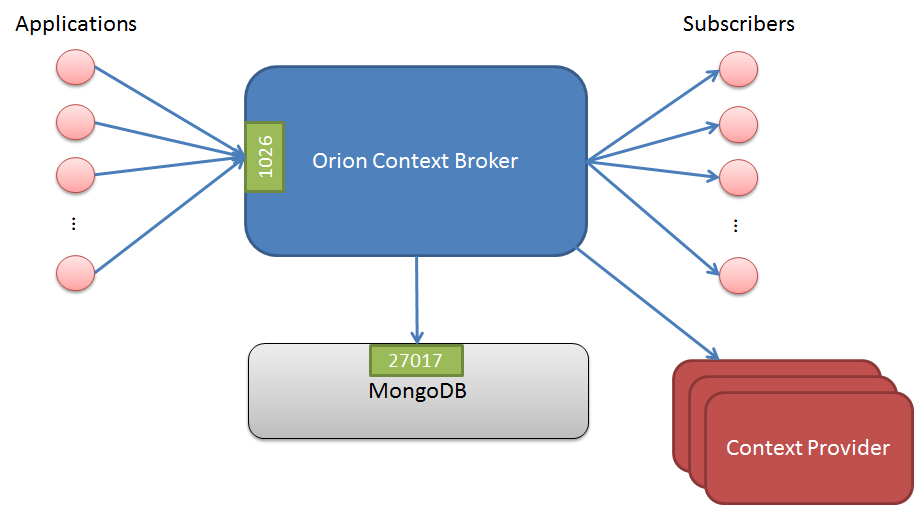
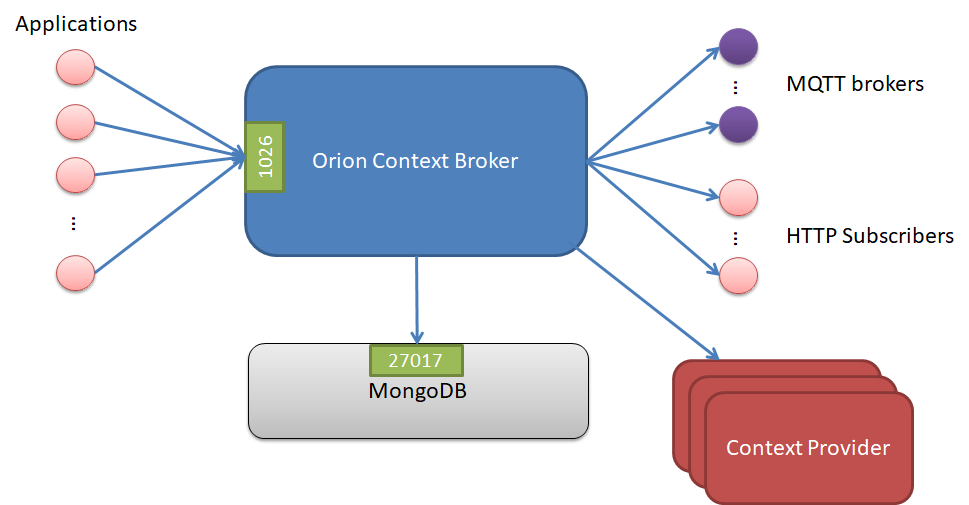
ADD MQTT documentation

diff --git a/src/lib/mqtt/MqttConnectionManager.cpp b/src/lib/mqtt/MqttConnectionManager.cpp
@@ -177,9 +177,9 @@ void MqttConnectionManager::semGive(void)
 */
 MqttConnection MqttConnectionManager::getConnection(const std::string& host, int port)
 {
+  // Note we don't take the sem here, as the caller has already done that
   std::string endpoint = getEndpoint(host, port);
 
-  semTake();
   if (connections.find(endpoint) == connections.end())
   {
     // Doesn't exists: create it
@@ -196,7 +196,6 @@ MqttConnection MqttConnectionManager::getConnection(const std::string& host, int
      if (c.mosq == NULL)
      {
        LM_E(("Runtime Error (could not create mosquitto client instance for %s)", endpoint.c_str()));
-       semGive();
        return c;
      }
 
@@ -210,7 +209,6 @@ MqttConnection MqttConnectionManager::getConnection(const std::string& host, int
        LM_E(("Runtime Error (could not connect to MQTT Broker %s (%d): %s)", endpoint.c_str(), resultCode, mosquitto_strerror(resultCode)));
        mosquitto_destroy(c.mosq);
        c.mosq = NULL;
-       semGive();
        return c;
      }
 
@@ -224,7 +222,6 @@ MqttConnection MqttConnectionManager::getConnection(const std::string& host, int
      c.lastTime = getCurrentTime();
      connections[endpoint] = c;
 
-     semGive();
      return c;
   }
   else
@@ -232,7 +229,7 @@ MqttConnection MqttConnectionManager::getConnection(const std::string& host, int
     // Already exists: update the time counter
     LM_T(LmtMqttNotif, ("Existing MQTT broker connection for %s", endpoint.c_str()));
     connections[endpoint].lastTime = getCurrentTime();
-    semGive();
+
     return connections[endpoint];
   }
 }
@@ -245,12 +242,19 @@ MqttConnection MqttConnectionManager::getConnection(const std::string& host, int
 */
 int MqttConnectionManager::sendMqttNotification(const std::string& host, int port, const std::string& content, const std::string& topic, unsigned int qos)
 {
+  // A previous version of the implementation took the sem in getConnection(), but we
+  // need to do it in sendMqttNotification to avoid the connection get removed by
+  // the cleanup() method while is beinig used here (the probability is small, but
+  // it could happen in theory)
+  semTake();
+
   MqttConnection c = getConnection(host, port);
   mosquitto* mosq = c.mosq;
 
   if (mosq == NULL)
   {
     // No need of log traces here: the getConnection() method would already print them
+    semGive();
     return -1;
   }
 
@@ -268,6 +272,7 @@ int MqttConnectionManager::sendMqttNotification(const std::string& host, int por
     LM_T(LmtMqttNotif, ("MQTT notification sent to %s:%d on topic %s with qos %d with id %d", host.c_str(), port, topic.c_str(), qos, id));
   }
 
+  semGive();
   return 0;
 }
 

diff --git a/doc/manuals/devel/sourceCode.md b/doc/manuals/devel/sourceCode.md
@@ -19,6 +19,7 @@
 * [src/lib/mongoBackend/](#srclibmongobackend) (Database operations implementation)
 * [src/lib/mongoDriver/](#srclibmongodriver) (Database interface to MongoDB)
 * [src/lib/ngsiNotify/](#srclibngsinotify) (NGSI notifications)
+* [src/lib/mqtt/](#srclibmqtt) (MQTT notifications)
 * [src/lib/alarmMgr/](#srclibalarmmgr) (Alarm Manager implementation)
 * [src/lib/cache/](#srclibcache) (Subscription cache implementation)
 * [src/lib/logSummary/](#srcliblogsummary) (Log Summary implementation)
@@ -445,29 +446,45 @@ of the driver and simplify our codebase. [Issue #3789](https://github.com/telefo
 ## src/lib/ngsiNotify/
 The **ngsiNotify** library is where notifications to subscriptions are implemented.
 When an entity is created or modified or when a subscription is created or modified, in case there is an active subscription/entity, the subscriber will be sent a notification, and it is the task of this library to make sure that that happens.
-[**mongoBackend**](#srclibmongobackend) decides when to notify and **ngsiNotify** executes the notification, with the help of the external library [libcurl](https://curl.haxx.se/libcurl/).
-Actually, a function from the [**rest** library](#srclibrest) is used: `httpRequestSend()`. Another important aspect of this library is that the notifications are sent by separate threads, using a thread pool if desired.
+[**mongoBackend**](#srclibmongobackend) decides when to notify and **ngsiNotify** executes the notification, with the help of an external library, depending the case:
+
+* For HTTP notifications, [libcurl](https://curl.haxx.se/libcurl/) is used. Actually, a function from
+  the [**rest** library](#srclibrest) is used: `httpRequestSend()`.
+* For MQTT notifications, [mosquitto](https://mosquitto.org/api/files/mosquitto-h.html) is used. Actually, a function from
+  the [**mqtt** library](#srclibmqtt) is used: `sendMqttNotification()`
+
+Another important aspect of this library is that the notifications are sent by separate threads, using a thread pool if desired.
 
 Using the [CLI parameter](../admin/cli.md) `-notificationMode`, Orion can be started with a thread pool for sending of notifications (`-notificationMode threadpool`). If so, during Orion startup, a pool of threads is created and these threads await new items in the notification queue and when an item becomes present, it is taken from the queue and processed, sending the notification in question. If the thread pool is not used, then a thread will be created for each notification to be sent (default value of `-notificationMode` is "transient", which gives this behaviour). More information on notification modes can be found in [this section of the Orion administration manual](../admin/perf_tuning.md#notification-modes-and-performance).
 
 This module is always invoked from `processOnChangeConditionForUpdateContext()` due to attribute update/creation (see the diagram [MD-01](mongoBackend.md#flow-md-01)).
 
-The following two images demonstrate the program flow for context entity notifications without and with thread pool.
+The following four images demonstrate the program flow for context entity notifications without and with thread pool, both in the case
+of HTTP and MQTT notifications.
 
 <a name="flow-nf-01"></a>
-![Notification on entity-attribute Update/Creation without thread pool](images/Flow-NF-01.png)
+![HTTP Notification on entity-attribute Update/Creation without thread pool](images/Flow-NF-01.png)
 
-_NF-01: Notification on entity-attribute Update/Creation without thread pool_
+_NF-01: HTTP Notification on entity-attribute Update/Creation without thread pool_
 
 * A vector of `SenderThreadParams` is built, each item of this vector corresponding to one notification (step 1).
 * `pthread_create()` is called to create a new thread for sending of the notifications and without awaiting any result, the control is returned to mongoBackend (step 2).
 * `pthread_create()` spawns the new thread which has `startSenderThread()` as starting point (step 3).
 * `startSenderThread()` loops over the `SenderThreadParams` vector and sends a notification per item (steps 4, 5 and 6). The response from the receiver of the notification is waited on (with a timeout), and all notifications are done in a serialized manner.
 
-<a name="flow-nf-03"></a>
-![Notification on entity-attribute Update/Creation with thread pool](images/Flow-NF-03.png)
+<a name="flow-nf-01b"></a>
+![MQTT Notification on entity-attribute Update/Creation without thread pool](images/Flow-NF-01b.png)
 
-_NF-03: Notification on entity-attribute Update/Creation with thread pool_
+_NF-01b: MQTT Notification on entity-attribute Update/Creation without thread pool_
+
+* Step 1 to 4 are the same a in the previous diagram. The difference is in steps 5 and 6, which use MQTT library to publish the notification in
+  the corresponding MQTT broker. If the connection to the MQTT broker don't exist previously, then it is created as part as the notification
+  process (there is a keepalive time configured with the `-mqttMaxAge` CLI so idle connectiona periodically cleaned up).
+
+<a name="flow-nf-03"></a>
+![HTTP Notification on entity-attribute Update/Creation with thread pool](images/Flow-NF-03.png)
+
+_NF-03: HTTP Notification on entity-attribute Update/Creation with thread pool_
 
 * A vector of `SenderThreadParams` is built, each item of this vector corresponding to one notification (step 1).
 * A `ServiceQueue` is selected depending the service associated to the notification. If no queue exists for the service
@@ -477,6 +494,26 @@ _NF-03: Notification on entity-attribute Update/Creation with thread pool_
 * One of the worker threads in the thread pool pops an item from the message queue (step 4). This is done using `SyncQOverflow::pop()`, which uses the notification queue semaphore to synchronize access to the queue.
 * The worker thread loops over the `SenderThreadParam` vector of the popped queue item and sends one notification per `SenderThreadParams` item in the vector (steps 5, 6 and 7). The response from the receiver of the notification is waited on (with a timeout), and all notifications are done in a serialized manner.
 * After that, the worker thread sleeps, waiting to wake up when a new item in the queue needs to be processed.
+
+<a name="flow-nf-03b"></a>
+![MQTT Notification on entity-attribute Update/Creation with thread pool](images/Flow-NF-03b.png)
+
+_NF-03b: MQTT Notification on entity-attribute Update/Creation with thread pool_
+
+* Step 1 to 5 are the same as in the previous diagram. The difference is in steps 6 and 7, which use MQTT library to publish the notification in
+  the corresponding MQTT broker. If the connection to the MQTT broker don't exist previously, then it is created as part as the notification
+  process (there is a keepalive time configured with the `-mqttMaxAge` CLI so idle connectiona periodically cleaned up).
+
+[Top](#top)
+
+## src/lib/mqtt/
+
+This library deals with MQTT notifications, based on [mosquitto](https://mosquitto.org/api/files/mosquitto-h.html) external library. There is
+a connection manager implemented as a singleton of the `MqttConnectionManager` class that keeps control of opened MQTT connections
+(cleaning up idle connections based in the `-maxMqttAge` keepalive) and provides the `sendMqttNotification` used by
+the [**ngsiNotify** library](#srclibngsinotify).
+
+[Top](#top)
 
 ## src/lib/alarmMgr/
 [Alarms](../admin/logs.md#alarms) are special log messages inserted into the log file. However, to record the number of consecutive alarms of the same type, and to not repeat them when they're already active, etc. a manager has been implemented. This *Alarm Manager* resides in the library **alarmMgr**.

diff --git a/doc/manuals/devel/architecture.md b/doc/manuals/devel/architecture.md
@@ -23,8 +23,10 @@ _Current Orion internal architecture_
 	* Next, similar to NGSIv1, a service routine is called to process the request. Each request type (in terms of HTTP and URL pattern) has a service routine. These "NGSIv2 service routines" reside in the library [**serviceRoutinesV2**](sourceCode.md#srclibserviceroutinesv2). Note that some V2 service routines may call NGSIv1 service routines (see [the mapping document](ServiceRoutines.txt) for details).
 	* At the end, the **mongoBackend** library is invoked. Depending on the case, this can be done directly from a V2 service routine or indirectly via a V1 service routine, as shown in the figure above.
 * The [**mongoBackend** library](sourceCode.md#srclibmongobackend) is in some way the "brain" of Orion. It contains a set of functions, aimed at the different operations that Orion performs (e.g. retrieve entity information, update entities, create subscriptions, etc.). This library interfaces with MongoDB using the **mongoDriver** library (which "wraps" the corresponding [MongoDB C driver](http://mongoc.org) driver). For historic reasons, most of the MongoDB backend is NGSIv1-based (thus, accessed from V1 service routines). The exceptions are those operations that are NGSIv2-only (e.g. subscription listing), which are invoked directly from V2 service routines.
-* Whenever a notification is triggered (e.g. as a consequence of updating an entity covered by an existing subscription), the notifier module (residing in the [**ngsiNotify** library](sourceCode.md#srclibngsinotify) is invoked from **mongoBackend** in order to send such a notification. 
-* The `httpRequestSend()` function (part of the **rest** library) is in charge of sending HTTP requests. It is based on the [libcurl](https://curl.haxx.se/libcurl/) external library. These functions are called either by the notifier module (to send notifications) or by a **serviceRoutines** function capable of forwarding queries/updates to [Context Providers](../user/context_providers.md) under some conditions.
+* Whenever a notification is triggered (e.g. as a consequence of updating an entity covered by an existing subscription), the notifier module (residing in the [**ngsiNotify** library](sourceCode.md#srclibngsinotify) is invoked from **mongoBackend** in order to send such a notification. Orion supports two notification types:
+	* HTTP notifications. In this case, the `httpRequestSend()` function (part of the **rest** library) is in charge of sending HTTP requests. It is based on the [libcurl](https://curl.haxx.se/libcurl/) external library.
+        * MQTT notifications. In this case, the `sendMqttNotification()` function (part of the **mqtt** library) is in charge of publishing the MQTT notification in the corresponding MQTT  broker. It is based on the [mosquitto](https://mosquitto.org/api/files/mosquitto-h.html) external library.
+* The `httpRequestSend()` function is also called by **serviceRoutines** functions capable of forwarding queries/updates to [Context Providers](../user/context_providers.md) under some conditions.
 
 [Top](#top)
 

diff --git a/doc/manuals/user/mqtt_notifications.md b/doc/manuals/user/mqtt_notifications.md
@@ -1,0 +1,74 @@
+## Introduction
+
+Apart from HTTP notifications, Orion is able to notify using MQTT. In this case, a MQTT message
+is published in a given MQTT broker specified at subscription time each time a notification
+is triggered.
+
+![](mqtt-notifications.png "mqtt-notifications.png")
+
+From an operational point of view, MQTT subscriptions are like HTTP ones,
+as described in [this section of the documentation](walkthrough_apiv2.md#subscriptions) and in the
+[NGSIv2 specification](http://telefonicaid.github.io/fiware-orion/api/v2/stable) (e.g. the notification
+payload is the same, you can set an expiration date, a filtering expression, etc.) but they use `mqtt`
+instead of `http` in the `notification` object.
+
+```
+...
+"notification": {
+  "mqtt": {
+    "url": "mqtt://<mqtt_host>:1883",
+    "topic": "sub1"
+  }
+}
+...
+```
+
+The following elements can be used within `mqtt`:
+
+* `url` to specify the MQTT broker enpoint to use. URL must start with `mqtt://` and never contains
+  a path (i.e. it only includes host and port)
+* `topic` to specify the MQTT topic to use
+* `qos`: to specify the MQTT QoS value to use in the notifications associated to the subscription
+  (0, 1 or 2). This is an optional field, if omitted then QoS 0 is used.
+
+## Custom notifications
+
+Custom notifications (described in the [NGSIv2 specification](http://telefonicaid.github.io/fiware-orion/api/v2/stable))
+in MQTT subscriptions work the same as in HTTP subscriptions, taking into account the following:
+
+* `mqttCustom` is used instead of `httpCustom`
+* `headers` and `qs`cannot be used, as they doesn’t have equivalence in MQTT
+* Macro replacement is performed in `topic` and `payload` fields. `url` and `qos` are fixed values
+
+## Connection management
+
+The endpoint of the MQTT broker associated to a subscription is specified in the `url` field at subscription time,
+but the connection to it is done first time a MQTT notification is published. 
+
+Once established, connection is kept opened while it is being used, i.e. MQTT notifications are published. If
+a connections is not used (i.e. no MQTT is published) Orion will close it after a predefined keepalive time
+(specified with the `-mqttMaxAge` [CLI parameter](../admin/cli.md), one hour by default).
+
+## MQTT cheatsheet
+
+The following commands can be useful to test and debug MQTT notifications (using [mosquitto_sub](https://mosquitto.org/man/mosquitto_sub-1.html)
+and [mosquito_pub](https://mosquitto.org/man/mosquitto_pub-1.html)).
+
+To subscribe with QoS 2:
+
+```
+mosquitto_sub --disable-clean-session --id 1 -q 2 -d -h <host> -p 1883 -t '#'
+```
+
+To create a shared subscription (cluster name “g1”)
+
+```
+mosquitto_sub -h <host> -p 1883 -t '$share/g1/#'
+```
+
+To publish using TLS:
+
+```
+mosquitto_pub -d --insecure --cafile file.pem -h <host> -p 1883 -u <username> -P <password> -t '/topic' -m 'payload'
+```
+

diff --git a/doc/manuals/devel/semaphores.md b/doc/manuals/devel/semaphores.md
@@ -8,6 +8,7 @@ Orion manages a number of semaphores for protection of delicate data and resourc
 * [Mongo connection pool](#mongo-connection-pool-semaphores)
 * [Metrics Manager](#metrics-manager-semaphore)
 * [Alarm Manager](#alarm-manager-semaphore)
+* [MQTT Connection Manager](#mqtt-connection-manager-semaphore)
 * [Log file](#log-file-semaphore)
 * [Notification queue](#notification-queue-semaphore)
 * [Notification queue statistics](#notification-queue-statistics-semaphore)
@@ -142,6 +143,19 @@ The semaphore protects the list of alarms and is accessed by the following metho
 * `badInputReset()`
 
 **Note:** The Alarm Manager semaphore is private in the class `AlarmManager`, **but** the methods `semTake()` and `semGive()` are **public**. This is a mistake, the methods should be private as well. They are only called from within methods of `AlarmManager`, so, no problem in making the methods private.
+
+[Top](#top)
+
+## MQTT Connection Manager semaphore
+The MQTT Connection Manager is pretty similar to the Metrics Manager, and its semaphore follows the same pattern. The class `MqttConnectionManager` has a private field called `sem` and methods:
+
+* `MqttConnectionManager::semTake()`
+* `MqttConnectionManager::semGive()`
+
+The semaphore protects the access to the connections hashmap and is accessed by the following methods:
+
+* `sendMqttNotification()`
+* `cleanup()`
 
 [Top](#top)
 

diff --git a/doc/manuals/user/ngsiv2_implementation_notes.md b/doc/manuals/user/ngsiv2_implementation_notes.md
@@ -16,6 +16,7 @@
 * [Ordering between different attribute value types](#ordering-between-different-attribute-value-types)
 * [Oneshot Subscription](#oneshot-subscriptions)
 * [Custom notifications without payload](#custom-notifications-without-payload)
+* [MQTT notifications](#mqtt-notifications)
 * [Notify only attributes that change](#notify-only-attributes-that-change)
 * [`lastFailureReason` and `lastSuccessCode` subscriptions fields](#lastfailurereason-and-lastsuccesscode-subscriptions-fields)
 * [`forcedUpdate` option](#forcedupdate-option)
@@ -319,6 +320,14 @@ associated to that subscription will not include any payload (i.e. content-lengt
 
 Note this is not the same than using `payload` set to `""` or omitting the field. In that case,
 the notification will be sent using the NGSIv2 normalized format.
+
+[Top](#top)
+
+## MQTT notifications
+
+Apart from the `http` and `httpCustom` fields withint `notification` object in subscription described
+in the NGISv2 specification, Orion also supports `mqtt` and `mqttCustom` for MQTT notifications. This
+topic is described with more detail [in this specific document](mqtt_notifications.md).
 
 [Top](#top)
 

diff --git a/doc/manuals/devel/flowsIndex.md b/doc/manuals/devel/flowsIndex.md
@@ -106,9 +106,13 @@ Related to mongoBackend logic (MB and MD prefixes):
 
 Related to notifications (NF prefix):
 
-* [NF-01: Notification on entity-attribute update/creation without thread pool](sourceCode.md#flow-nf-01)
+* [NF-01: HTTP Notification on entity-attribute update/creation without thread pool](sourceCode.md#flow-nf-01)
   * Continues from MD-01
-* [NF-03: Notification on entity-attribute update/creation with thread pool](sourceCode.md#flow-nf-03)
+* [NF-01b: MQTT Notification on entity-attribute update/creation without thread pool](sourceCode.md#flow-nf-01b)
+  * Continues from MD-01
+* [NF-03: HTTP Notification on entity-attribute update/creation with thread pool](sourceCode.md#flow-nf-03)
+  * Continues from MD-01
+* [NF-03b: MQTT Notification on entity-attribute update/creation with thread pool](sourceCode.md#flow-nf-03b)
   * Continues from MD-01
 
 Related to the subscription cache (SC prefix):

diff --git a/doc/manuals/admin/diagnosis.md b/doc/manuals/admin/diagnosis.md
@@ -213,8 +213,9 @@ The Orion Context Broker uses the following flows:
 
 -   From client applications to the broker, using TCP port 1026 by
     default (this is overridden with "-port" option).
--   From the broker to subscribed applications, using the port specified
+-   From the broker to subscribed applications, using the HTTP port specified
     by the application in the callback at subscription creation time.
+-   From the broker to MQTT brokers, for MQTT-based notifications
 -   From the broker to MongoDB database. In the case of running MongoDB
     in the same host as the broker, this is an internal flow (i.e. using
     the loopback interface). The standard port in MongoDB is 27017

diff --git a/doc/manuals/user/walkthrough_apiv2.md b/doc/manuals/user/walkthrough_apiv2.md
@@ -810,6 +810,8 @@ EOF
   custom HTTP headers, custom URL query parameters and custom payloads (not necessarily in JSON).
   Have a look at "Notification Messages" and "Custom Notifications" in the
   [NGSIv2 specification](http://telefonicaid.github.io/fiware-orion/api/v2/stable/).
+* In addition to the HTTP notifications described in this section, Orion also supports
+  MQTT notifications. This topic is described in more detail in [this document](mqtt_notifications.md).
 
 [Top](#top)
 

diff --git a/doc/manuals/user/README.md b/doc/manuals/user/README.md
@@ -9,6 +9,7 @@
   * [Pagination](pagination.md)
   * [CORS](cors.md)
   * [Geolocation ](geolocation.md)
+  * [MQTT notifications](mqtt_notifications.md)
   * [Transient Entities](transient_entities.md)
   * [Structured values for attributes](structured_attribute_valued.md)
   * [Context Providers registration and request forwarding](context_providers.md)

diff --git a/doc/manuals/admin/cli.md b/doc/manuals/admin/cli.md
@@ -253,3 +253,4 @@ Two facts have to be taken into account:
 |	ORION_DISABLE_METRICS	|	disableMetrics	|
 |	ORION_INSECURE_NOTIF	|	insecureNotif	|
 |	ORION_NGSIV1_AUTOCAST	|	ngsiv1Autocast	|
+|       ORION_MQTT_MAX_AGE      |  mqttMaxAge  |
